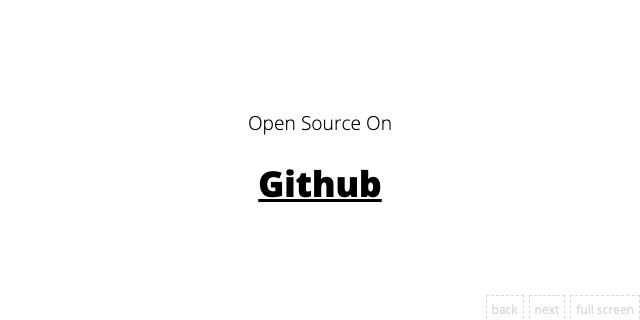
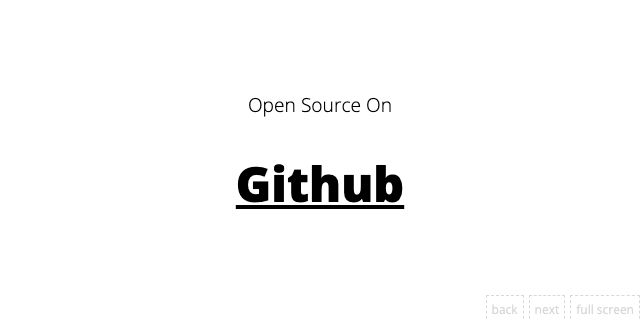
update basic.css

Changed region(s): [[0.375, 0.5, 0.6562, 0.6562], [0.375, 0.3125, 0.625, 0.4062]]

diff --git a/demo/docs/deck/presentation/index.html b/demo/docs/deck/presentation/index.html
@@ -1,4 +1,4 @@
-<html lang="en"><head><meta charset="utf-8"><meta name="viewport" content="width=device-width,initial-scale=1"><meta name="referrer" content="no-referrer-when-downgrade"><title>Presentation | Welcome</title><meta property="og:type" content="article"><meta property="og:title" content="Presentation | Welcome"><meta property="og:site_name" content="markdeck"><meta property="og:image" content="https://raw.githubusercontent.com/amazingandyyy/markdeck/master/demo/docs/deck/presentation/meta/index.jpeg?1565644825540"><meta property="og:image:type" content="image/jpeg"><meta name="twitter:card" content="summary_large_image"><meta name="twitter:image" content="https://raw.githubusercontent.com/amazingandyyy/markdeck/master/demo/docs/deck/presentation/meta/index.jpeg?1565644825540"><meta name="twitter:title" content="Presentation | Welcome"><meta property="article:modified_time" content="Mon Aug 12 2019 14:20:25 GMT-0700 (PDT)"><meta property="article:publisher" content="https://amazingandyyy.com/markdeck"><meta name="twitter:site" content="@markdeck"><meta name="twitter:creator" content="@markdeck"><meta property="og:image:width" content="640"><meta property="og:image:height" content="320"><meta property="og:description" content="# Markdeck v0.2
+<html lang="en"><head><meta charset="utf-8"><meta name="viewport" content="width=device-width,initial-scale=1"><meta name="referrer" content="no-referrer-when-downgrade"><title>Presentation | Welcome</title><meta property="og:type" content="article"><meta property="og:title" content="Presentation | Welcome"><meta property="og:site_name" content="markdeck"><meta property="og:image" content="https://raw.githubusercontent.com/amazingandyyy/markdeck/master/demo/docs/deck/presentation/meta/index.jpeg?1565644972452"><meta property="og:image:type" content="image/jpeg"><meta name="twitter:card" content="summary_large_image"><meta name="twitter:image" content="https://raw.githubusercontent.com/amazingandyyy/markdeck/master/demo/docs/deck/presentation/meta/index.jpeg?1565644972452"><meta name="twitter:title" content="Presentation | Welcome"><meta property="article:modified_time" content="Mon Aug 12 2019 14:22:52 GMT-0700 (PDT)"><meta property="article:publisher" content="https://amazingandyyy.com/markdeck"><meta name="twitter:site" content="@markdeck"><meta name="twitter:creator" content="@markdeck"><meta property="og:image:width" content="640"><meta property="og:image:height" content="320"><meta property="og:description" content="# Markdeck v0.2
 
 ### The first SEO friendly presentation builder
 

diff --git a/demo/docs/deck/presentation/1.html b/demo/docs/deck/presentation/1.html
@@ -1,4 +1,4 @@
-<html lang="en"><head><meta charset="utf-8"><meta name="viewport" content="width=device-width,initial-scale=1"><meta name="referrer" content="no-referrer-when-downgrade"><title>Presentation | 1</title><meta property="og:type" content="article"><meta property="og:title" content="Presentation | 1"><meta property="og:site_name" content="markdeck"><meta property="og:image" content="https://raw.githubusercontent.com/amazingandyyy/markdeck/master/demo/docs/deck/presentation/meta/1.jpeg?1565644825591"><meta property="og:image:type" content="image/jpeg"><meta name="twitter:card" content="summary_large_image"><meta name="twitter:image" content="https://raw.githubusercontent.com/amazingandyyy/markdeck/master/demo/docs/deck/presentation/meta/1.jpeg?1565644825591"><meta name="twitter:title" content="Presentation | 1"><meta property="article:modified_time" content="Mon Aug 12 2019 14:20:25 GMT-0700 (PDT)"><meta property="article:publisher" content="https://amazingandyyy.com/markdeck"><meta name="twitter:site" content="@markdeck"><meta name="twitter:creator" content="@markdeck"><meta property="og:image:width" content="640"><meta property="og:image:height" content="320"><meta property="og:description" content="# Markdeck v0.2
+<html lang="en"><head><meta charset="utf-8"><meta name="viewport" content="width=device-width,initial-scale=1"><meta name="referrer" content="no-referrer-when-downgrade"><title>Presentation | 1</title><meta property="og:type" content="article"><meta property="og:title" content="Presentation | 1"><meta property="og:site_name" content="markdeck"><meta property="og:image" content="https://raw.githubusercontent.com/amazingandyyy/markdeck/master/demo/docs/deck/presentation/meta/1.jpeg?1565644972523"><meta property="og:image:type" content="image/jpeg"><meta name="twitter:card" content="summary_large_image"><meta name="twitter:image" content="https://raw.githubusercontent.com/amazingandyyy/markdeck/master/demo/docs/deck/presentation/meta/1.jpeg?1565644972523"><meta name="twitter:title" content="Presentation | 1"><meta property="article:modified_time" content="Mon Aug 12 2019 14:22:52 GMT-0700 (PDT)"><meta property="article:publisher" content="https://amazingandyyy.com/markdeck"><meta name="twitter:site" content="@markdeck"><meta name="twitter:creator" content="@markdeck"><meta property="og:image:width" content="640"><meta property="og:image:height" content="320"><meta property="og:description" content="# Markdeck v0.2
 
 ### The first SEO friendly presentation builder
 

diff --git a/demo/docs/deck/presentation/2.html b/demo/docs/deck/presentation/2.html
@@ -1,4 +1,4 @@
-<html lang="en"><head><meta charset="utf-8"><meta name="viewport" content="width=device-width,initial-scale=1"><meta name="referrer" content="no-referrer-when-downgrade"><title>Presentation | 2</title><meta property="og:type" content="article"><meta property="og:title" content="Presentation | 2"><meta property="og:site_name" content="markdeck"><meta property="og:image" content="https://raw.githubusercontent.com/amazingandyyy/markdeck/master/demo/docs/deck/presentation/meta/2.jpeg?1565644825598"><meta property="og:image:type" content="image/jpeg"><meta name="twitter:card" content="summary_large_image"><meta name="twitter:image" content="https://raw.githubusercontent.com/amazingandyyy/markdeck/master/demo/docs/deck/presentation/meta/2.jpeg?1565644825598"><meta name="twitter:title" content="Presentation | 2"><meta property="article:modified_time" content="Mon Aug 12 2019 14:20:25 GMT-0700 (PDT)"><meta property="article:publisher" content="https://amazingandyyy.com/markdeck"><meta name="twitter:site" content="@markdeck"><meta name="twitter:creator" content="@markdeck"><meta property="og:image:width" content="640"><meta property="og:image:height" content="320"><meta property="og:description" content="# Markdeck v0.2
+<html lang="en"><head><meta charset="utf-8"><meta name="viewport" content="width=device-width,initial-scale=1"><meta name="referrer" content="no-referrer-when-downgrade"><title>Presentation | 2</title><meta property="og:type" content="article"><meta property="og:title" content="Presentation | 2"><meta property="og:site_name" content="markdeck"><meta property="og:image" content="https://raw.githubusercontent.com/amazingandyyy/markdeck/master/demo/docs/deck/presentation/meta/2.jpeg?1565644972533"><meta property="og:image:type" content="image/jpeg"><meta name="twitter:card" content="summary_large_image"><meta name="twitter:image" content="https://raw.githubusercontent.com/amazingandyyy/markdeck/master/demo/docs/deck/presentation/meta/2.jpeg?1565644972533"><meta name="twitter:title" content="Presentation | 2"><meta property="article:modified_time" content="Mon Aug 12 2019 14:22:52 GMT-0700 (PDT)"><meta property="article:publisher" content="https://amazingandyyy.com/markdeck"><meta name="twitter:site" content="@markdeck"><meta name="twitter:creator" content="@markdeck"><meta property="og:image:width" content="640"><meta property="og:image:height" content="320"><meta property="og:description" content="# Markdeck v0.2
 
 ### The first SEO friendly presentation builder
 

diff --git a/demo/docs/deck/presentation/3.html b/demo/docs/deck/presentation/3.html
@@ -1,4 +1,4 @@
-<html lang="en"><head><meta charset="utf-8"><meta name="viewport" content="width=device-width,initial-scale=1"><meta name="referrer" content="no-referrer-when-downgrade"><title>Presentation | 3</title><meta property="og:type" content="article"><meta property="og:title" content="Presentation | 3"><meta property="og:site_name" content="markdeck"><meta property="og:image" content="https://raw.githubusercontent.com/amazingandyyy/markdeck/master/demo/docs/deck/presentation/meta/3.jpeg?1565644825608"><meta property="og:image:type" content="image/jpeg"><meta name="twitter:card" content="summary_large_image"><meta name="twitter:image" content="https://raw.githubusercontent.com/amazingandyyy/markdeck/master/demo/docs/deck/presentation/meta/3.jpeg?1565644825608"><meta name="twitter:title" content="Presentation | 3"><meta property="article:modified_time" content="Mon Aug 12 2019 14:20:25 GMT-0700 (PDT)"><meta property="article:publisher" content="https://amazingandyyy.com/markdeck"><meta name="twitter:site" content="@markdeck"><meta name="twitter:creator" content="@markdeck"><meta property="og:image:width" content="640"><meta property="og:image:height" content="320"><meta property="og:description" content="# Markdeck v0.2
+<html lang="en"><head><meta charset="utf-8"><meta name="viewport" content="width=device-width,initial-scale=1"><meta name="referrer" content="no-referrer-when-downgrade"><title>Presentation | 3</title><meta property="og:type" content="article"><meta property="og:title" content="Presentation | 3"><meta property="og:site_name" content="markdeck"><meta property="og:image" content="https://raw.githubusercontent.com/amazingandyyy/markdeck/master/demo/docs/deck/presentation/meta/3.jpeg?1565644972552"><meta property="og:image:type" content="image/jpeg"><meta name="twitter:card" content="summary_large_image"><meta name="twitter:image" content="https://raw.githubusercontent.com/amazingandyyy/markdeck/master/demo/docs/deck/presentation/meta/3.jpeg?1565644972552"><meta name="twitter:title" content="Presentation | 3"><meta property="article:modified_time" content="Mon Aug 12 2019 14:22:52 GMT-0700 (PDT)"><meta property="article:publisher" content="https://amazingandyyy.com/markdeck"><meta name="twitter:site" content="@markdeck"><meta name="twitter:creator" content="@markdeck"><meta property="og:image:width" content="640"><meta property="og:image:height" content="320"><meta property="og:description" content="# Markdeck v0.2
 
 ### The first SEO friendly presentation builder
 

diff --git a/demo/docs/deck/presentation/4.html b/demo/docs/deck/presentation/4.html
@@ -1,4 +1,4 @@
-<html lang="en"><head><meta charset="utf-8"><meta name="viewport" content="width=device-width,initial-scale=1"><meta name="referrer" content="no-referrer-when-downgrade"><title>Presentation | 4</title><meta property="og:type" content="article"><meta property="og:title" content="Presentation | 4"><meta property="og:site_name" content="markdeck"><meta property="og:image" content="https://raw.githubusercontent.com/amazingandyyy/markdeck/master/demo/docs/deck/presentation/meta/4.jpeg?1565644825613"><meta property="og:image:type" content="image/jpeg"><meta name="twitter:card" content="summary_large_image"><meta name="twitter:image" content="https://raw.githubusercontent.com/amazingandyyy/markdeck/master/demo/docs/deck/presentation/meta/4.jpeg?1565644825613"><meta name="twitter:title" content="Presentation | 4"><meta property="article:modified_time" content="Mon Aug 12 2019 14:20:25 GMT-0700 (PDT)"><meta property="article:publisher" content="https://amazingandyyy.com/markdeck"><meta name="twitter:site" content="@markdeck"><meta name="twitter:creator" content="@markdeck"><meta property="og:image:width" content="640"><meta property="og:image:height" content="320"><meta property="og:description" content="# Markdeck v0.2
+<html lang="en"><head><meta charset="utf-8"><meta name="viewport" content="width=device-width,initial-scale=1"><meta name="referrer" content="no-referrer-when-downgrade"><title>Presentation | 4</title><meta property="og:type" content="article"><meta property="og:title" content="Presentation | 4"><meta property="og:site_name" content="markdeck"><meta property="og:image" content="https://raw.githubusercontent.com/amazingandyyy/markdeck/master/demo/docs/deck/presentation/meta/4.jpeg?1565644972560"><meta property="og:image:type" content="image/jpeg"><meta name="twitter:card" content="summary_large_image"><meta name="twitter:image" content="https://raw.githubusercontent.com/amazingandyyy/markdeck/master/demo/docs/deck/presentation/meta/4.jpeg?1565644972560"><meta name="twitter:title" content="Presentation | 4"><meta property="article:modified_time" content="Mon Aug 12 2019 14:22:52 GMT-0700 (PDT)"><meta property="article:publisher" content="https://amazingandyyy.com/markdeck"><meta name="twitter:site" content="@markdeck"><meta name="twitter:creator" content="@markdeck"><meta property="og:image:width" content="640"><meta property="og:image:height" content="320"><meta property="og:description" content="# Markdeck v0.2
 
 ### The first SEO friendly presentation builder
 

diff --git a/demo/docs/deck/presentation/5.html b/demo/docs/deck/presentation/5.html
@@ -1,4 +1,4 @@
-<html lang="en"><head><meta charset="utf-8"><meta name="viewport" content="width=device-width,initial-scale=1"><meta name="referrer" content="no-referrer-when-downgrade"><title>Presentation | 5</title><meta property="og:type" content="article"><meta property="og:title" content="Presentation | 5"><meta property="og:site_name" content="markdeck"><meta property="og:image" content="https://raw.githubusercontent.com/amazingandyyy/markdeck/master/demo/docs/deck/presentation/meta/5.jpeg?1565644825618"><meta property="og:image:type" content="image/jpeg"><meta name="twitter:card" content="summary_large_image"><meta name="twitter:image" content="https://raw.githubusercontent.com/amazingandyyy/markdeck/master/demo/docs/deck/presentation/meta/5.jpeg?1565644825618"><meta name="twitter:title" content="Presentation | 5"><meta property="article:modified_time" content="Mon Aug 12 2019 14:20:25 GMT-0700 (PDT)"><meta property="article:publisher" content="https://amazingandyyy.com/markdeck"><meta name="twitter:site" content="@markdeck"><meta name="twitter:creator" content="@markdeck"><meta property="og:image:width" content="640"><meta property="og:image:height" content="320"><meta property="og:description" content="# Markdeck v0.2
+<html lang="en"><head><meta charset="utf-8"><meta name="viewport" content="width=device-width,initial-scale=1"><meta name="referrer" content="no-referrer-when-downgrade"><title>Presentation | 5</title><meta property="og:type" content="article"><meta property="og:title" content="Presentation | 5"><meta property="og:site_name" content="markdeck"><meta property="og:image" content="https://raw.githubusercontent.com/amazingandyyy/markdeck/master/demo/docs/deck/presentation/meta/5.jpeg?1565644972568"><meta property="og:image:type" content="image/jpeg"><meta name="twitter:card" content="summary_large_image"><meta name="twitter:image" content="https://raw.githubusercontent.com/amazingandyyy/markdeck/master/demo/docs/deck/presentation/meta/5.jpeg?1565644972568"><meta name="twitter:title" content="Presentation | 5"><meta property="article:modified_time" content="Mon Aug 12 2019 14:22:52 GMT-0700 (PDT)"><meta property="article:publisher" content="https://amazingandyyy.com/markdeck"><meta name="twitter:site" content="@markdeck"><meta name="twitter:creator" content="@markdeck"><meta property="og:image:width" content="640"><meta property="og:image:height" content="320"><meta property="og:description" content="# Markdeck v0.2
 
 ### The first SEO friendly presentation builder
 

diff --git a/demo/docs/deck/presentation/markdeck/basic.css b/demo/docs/deck/presentation/markdeck/basic.css
@@ -36,7 +36,7 @@ h1 {
     font-size: 3rem;
     font-weight: 900;
 }
-@media only screen and (min-width: 600px) {
+@media only screen and (max-width: 600px) {
     h1 {
         font-size: 2.2rem;
     }
@@ -86,7 +86,7 @@ img {
     max-height: 500px;
 }
 
-@media only screen and (min-width: 600px) {
+@media only screen and (max-width: 600px) {
     img {
         width: auto;
         max-height: 300px;
